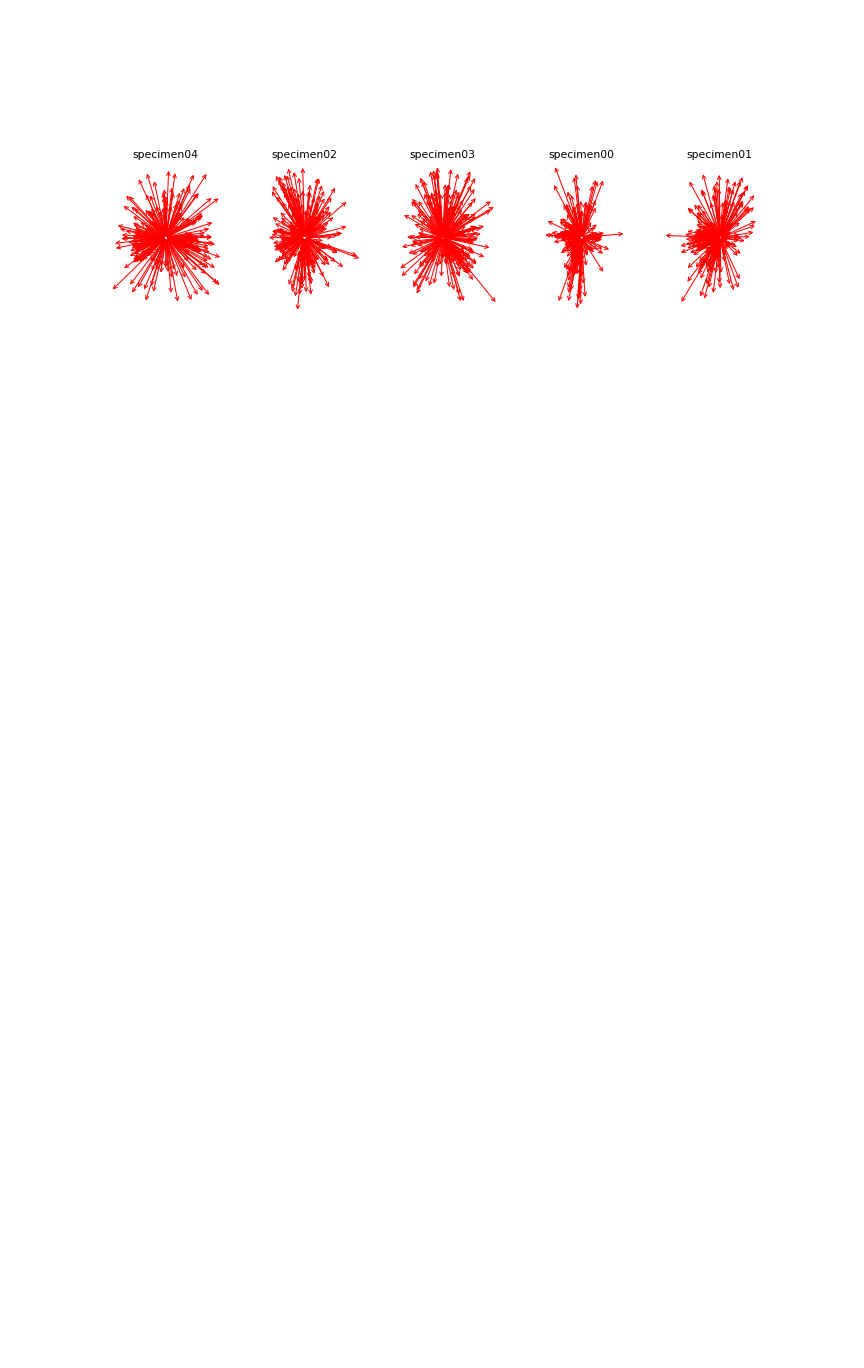
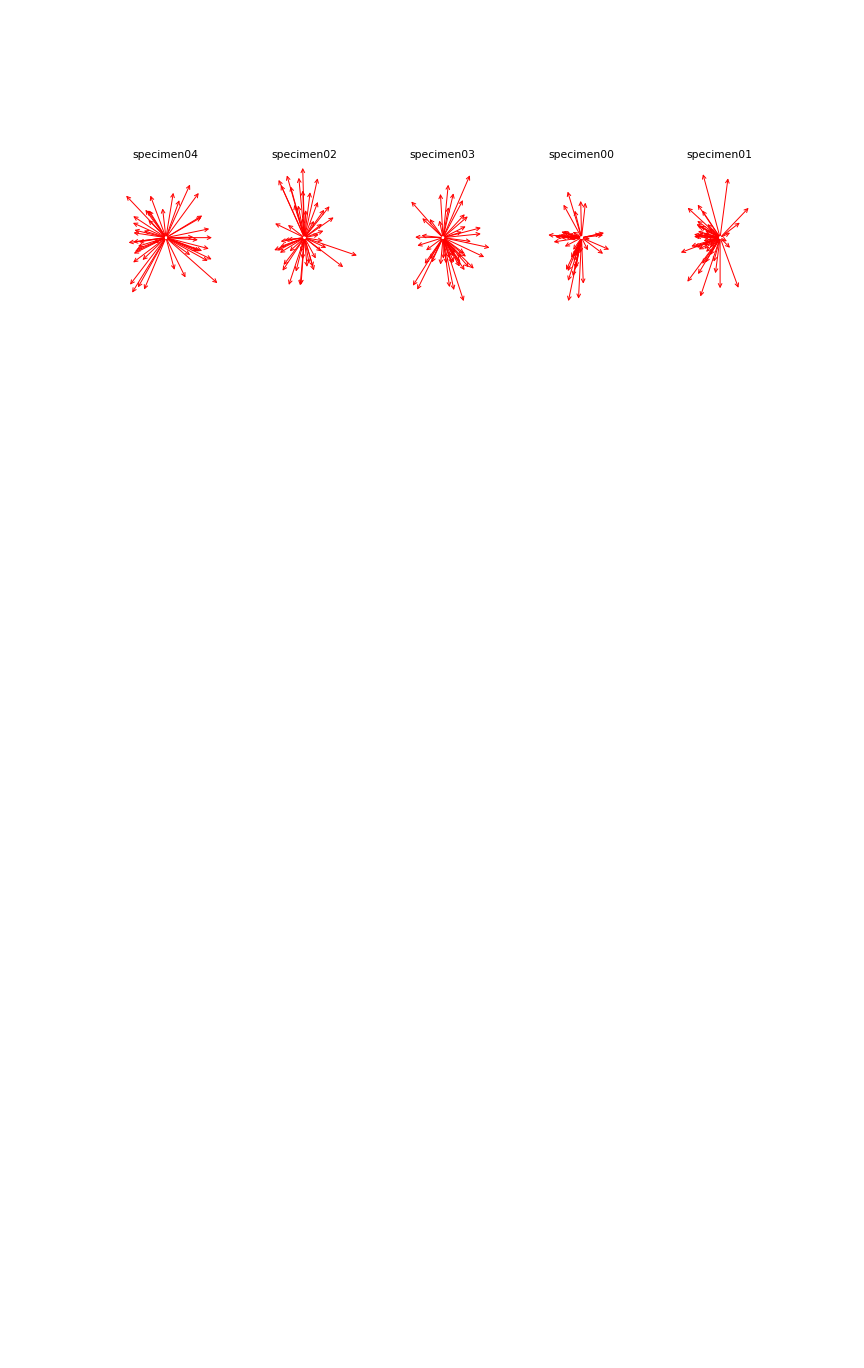
added pose visualization by each class

diff --git a/pose/plot.py b/pose/plot.py
@@ -28,7 +28,29 @@ def main():
         r = filter_results(image_data[image])
         if r is not None:
             results.append(r)
+    data = results
+    
+    framecount = []
+    focuscount = []
+    for i,d in enumerate(data):
+        if d['head'] == 'out of frame' and d['tail'] == 'out of frame':
+            framecount.append(i)
+        if d['focus'] == 'Slightly out of focus':
+            focuscount.append(i)
+    
+    taxclass, specimen = setImgBySpecClass(data)
+    plotSpecimensByClass(data, taxclass)
+    plotAllSpecimens(data, specimen)
+    
 
+#    framecount = []
+#    focuscount = []
+#    plotData(data, framecount)
+#    plt.savefig('frame.png')
+#    plotData(data, focuscount)
+#    plt.savefig('focus.png')
+    
+def setImgBySpecClass(data):
     spec = sorted(list(set(d['specimen'] for d in data)))
     clas = sorted(list(set(d['class'] for d in data)))
     specimen = dict(zip(spec,range(len(spec))))
@@ -52,39 +74,33 @@ def main():
         for j,vv in enumerate(v):
             ind = [i for i,d in enumerate(data) if d['specimen'] == vv]
             taxclass[k][j] = {vv:ind}
+    return taxclass, specimen
 
-    plotSpecimensByClass(data, taxclass)
-    plotAllSpecimens(data, specimen)
-    
-#        if d['head'] == 'out of frame' and d['tail'] == 'out of frame':
-#            framecount.append(i)
-#        if d['focus'] == 'Slightly out of focus':
-#            focuscount.append(i)
-#    framecount = []
-#    focuscount = []
-#    plotData(data, framecount)
-#    plt.savefig('frame.png')
-#    plotData(data, focuscount)
-#    plt.savefig('focus.png')
 def plotSpecimensByClass(data, taxclass):
+    numRows1 = 5; numCols1 = 3
     numRows = 6; numCol = 5; cntr = 1
+    fig1 = plt.figure();
     for k,v in taxclass.iteritems(): # Dict of classes
         fig = plt.figure();
         for j, vv in enumerate(v): # List of specimens
             for x,y in vv.iteritems(): # Dict specimens:indices
                 ax = fig.add_subplot(numRows,numCol,j+1, autoscale_on=False, xlim=(0, 255), ylim=(0, 255))
+                ax1 = fig1.add_subplot(numRows1, numCols1, cntr, autoscale_on=False, xlim=(0, 255), ylim=(0, 255))
                 for t in y:
                     d = data[t]
                     if d['head'] == 'out of frame' or d['tail'] == 'out of frame':
                         continue
                     head, tail = (d['head']['x'], d['head']['y']), (d['tail']['x'], d['tail']['y'])
-                    ax.annotate('', xy=(128 + head[0] - tail[0], 128 + head[1] - tail[1]),
+                    ax.annotate('', xy=(128 + head[0] - tail[0], 128 + head[1] - tail[1]),xytext=(128, 128), arrowprops=dict(arrowstyle="->", color='r', lw=1))
+                    ax1.annotate('', xy=(128 + head[0] - tail[0], 128 + head[1] - tail[1]),
                 xytext=(128, 128), arrowprops=dict(arrowstyle="->", color='r', lw=1))
-                plt.title(d['specimen'].split('_')[1]); plt.axis('off')
+                ax.set_title(d['specimen'].split('_')[1]); plt.axis('off')
+                ax1.set_title(d['class']); plt.axis('off')
         print k + ' arrowmap generated, ' + str(cntr) + '/' + str(len(taxclass)) + ' remaining'
         fig.savefig('arrowmaps/' + d['class'] + '.png')
         cntr +=1
-        
+    fig1.savefig('arrowmaps/allclasses.png')
+
 def plotAllSpecimens(data, specimen):
     fig = plt.figure()
     numRows = 3; numCols = 2; itr=0
@@ -101,7 +117,7 @@ def plotAllSpecimens(data, specimen):
         plt.title(d['specimen']); plt.axis('off')
         print k + ' arrowmap generated, ' + str(itr+1) + '/' + str(len(specimen)) + ' remaining'
         itr += 1
-    fig.savefig('PoseVariance.png')
+    #fig.savefig('PoseVariance.png')
 
 def plotData(data, ind):
     numRows = 9; numCols = 5
